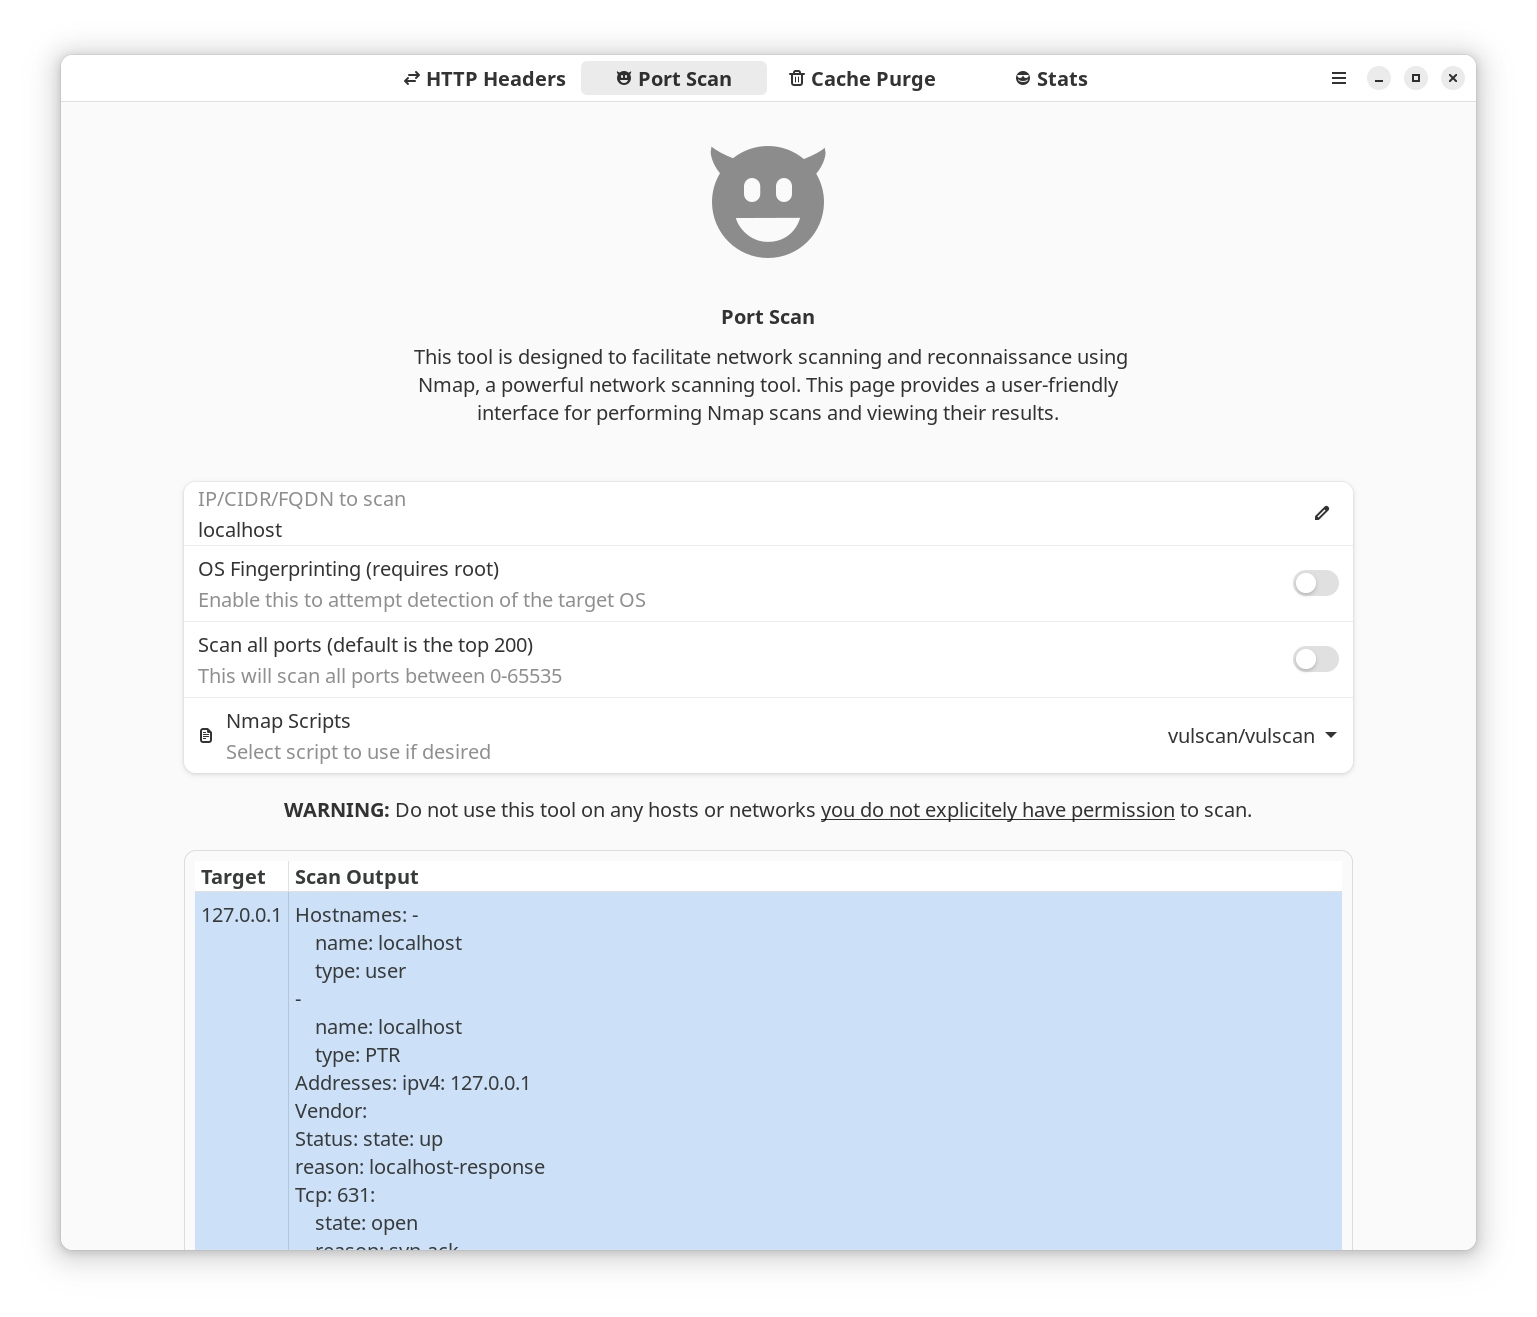
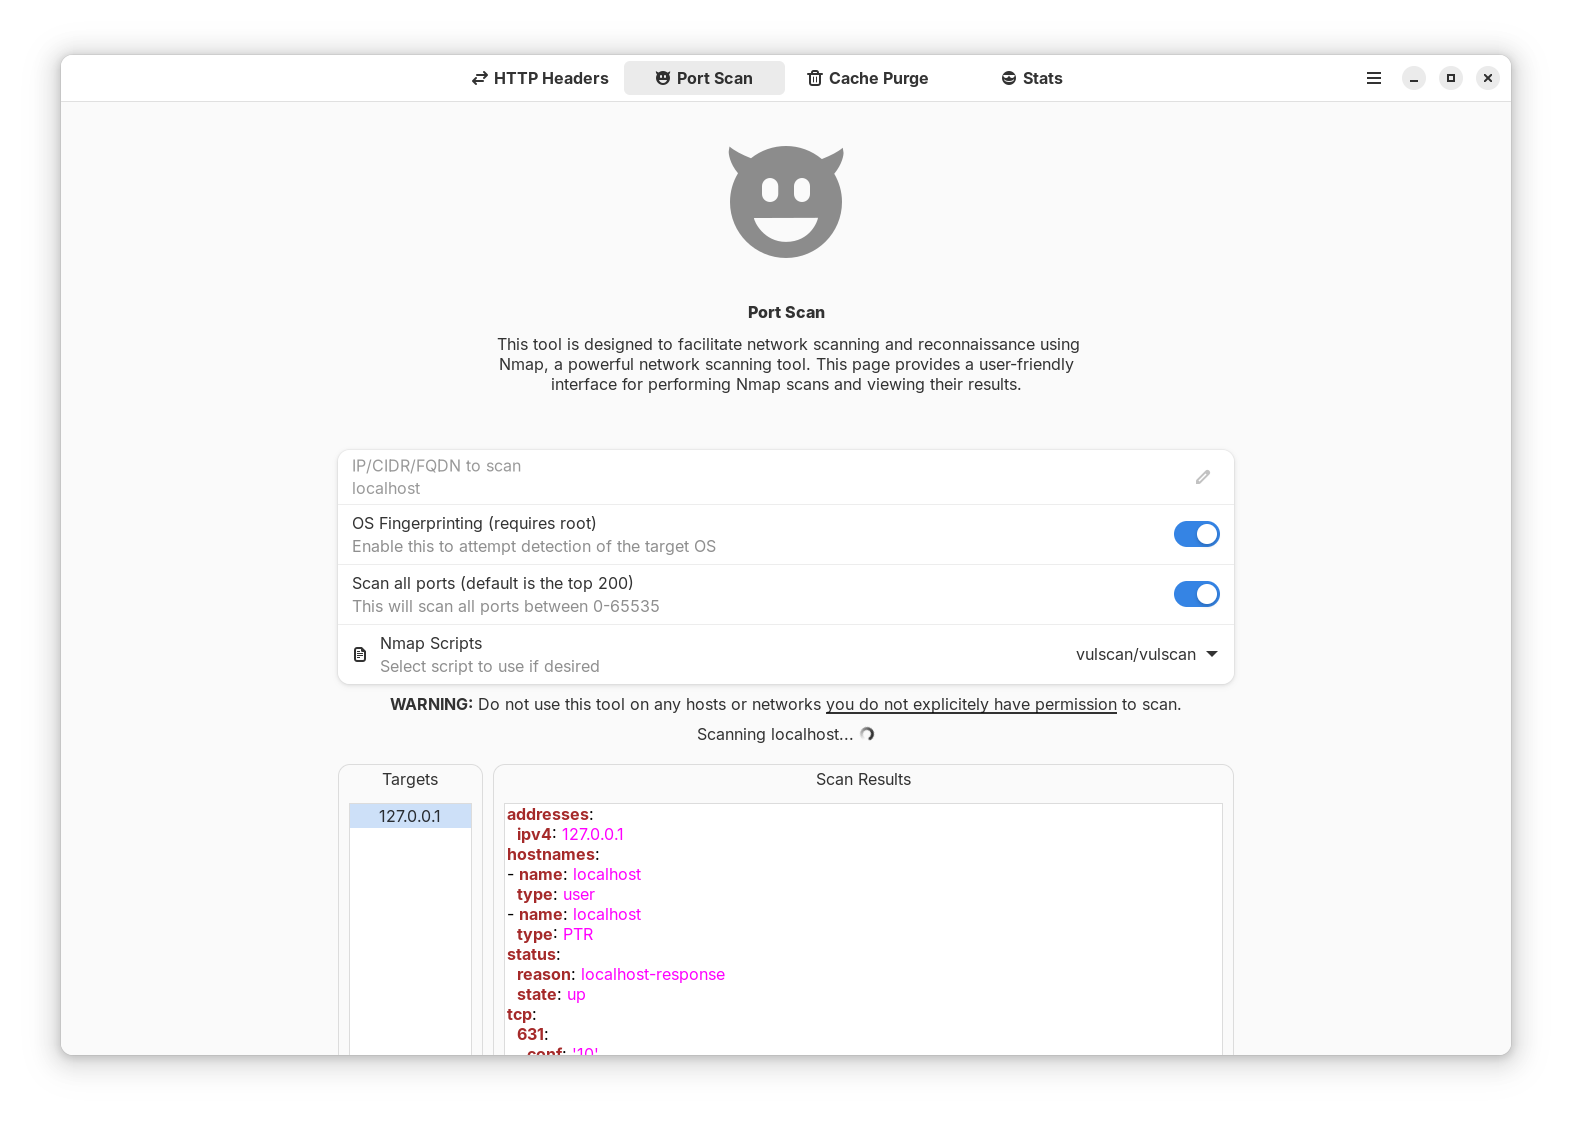
Updated README.md and images/app.png

Changed region(s): [[0.0312, 0.3743, 0.9681, 0.967], [0.0625, 0.0312, 0.9681, 0.3431], [0.8432, 0.4367, 0.8744, 0.5303]]

diff --git a/README.md b/README.md
@@ -3,20 +3,20 @@
 ![woes](images/app.png)
 
 
-A graphical user interface for various web operations tasks, built with GTK 4 and Adw.
+WOES is a graphical user interface designed for performing various web operations tasks. Built with GTK 4 and Adwaita, it provides an intuitive and user-friendly interface for tasks such as fetching HTTP headers, performing port scans, and running OS fingerprint detection.
 
 # Features
-
-* Fetch and display HTTP headers for a given URL
-* Enable Akamai debug headers.
-* ~~Select JSON payloads from a dropdown menu~~
-* Port Scan, OS fingerprint detection, NSE Scripts
+* Fetch and Display HTTP Headers: Retrieve and view HTTP headers for any given URL, with the ability to enable Akamai debug headers.
+* Port Scanning: Perform port scans on specified targets with customizable options, including OS fingerprint detection and NSE scripts.
+* OS Fingerprint Detection: Detect operating systems on scanned targets as part of the port scanning process.
+* NSE Script Integration: Run Nmap Scripting Engine (NSE) scripts as part of the scanning process.
 
 # Requirements
+* `GTK 4` / `libadwaita`
+* `GtkSourceView`
+* `Python 3`
 
-* GTK 4/ libadwaita
-* Python 3
-* requests
-* nmap
+The following Python libraries are also required: `requests`, `pyYAML`, `python-nmap`
 
-This is in very early development still. Only the HTTP Headers and Nmap status pages are functional currently.
+# Development Status
+This application is currently in early development. The HTTP Headers and Nmap status pages are functional, with more features planned for future releases.
